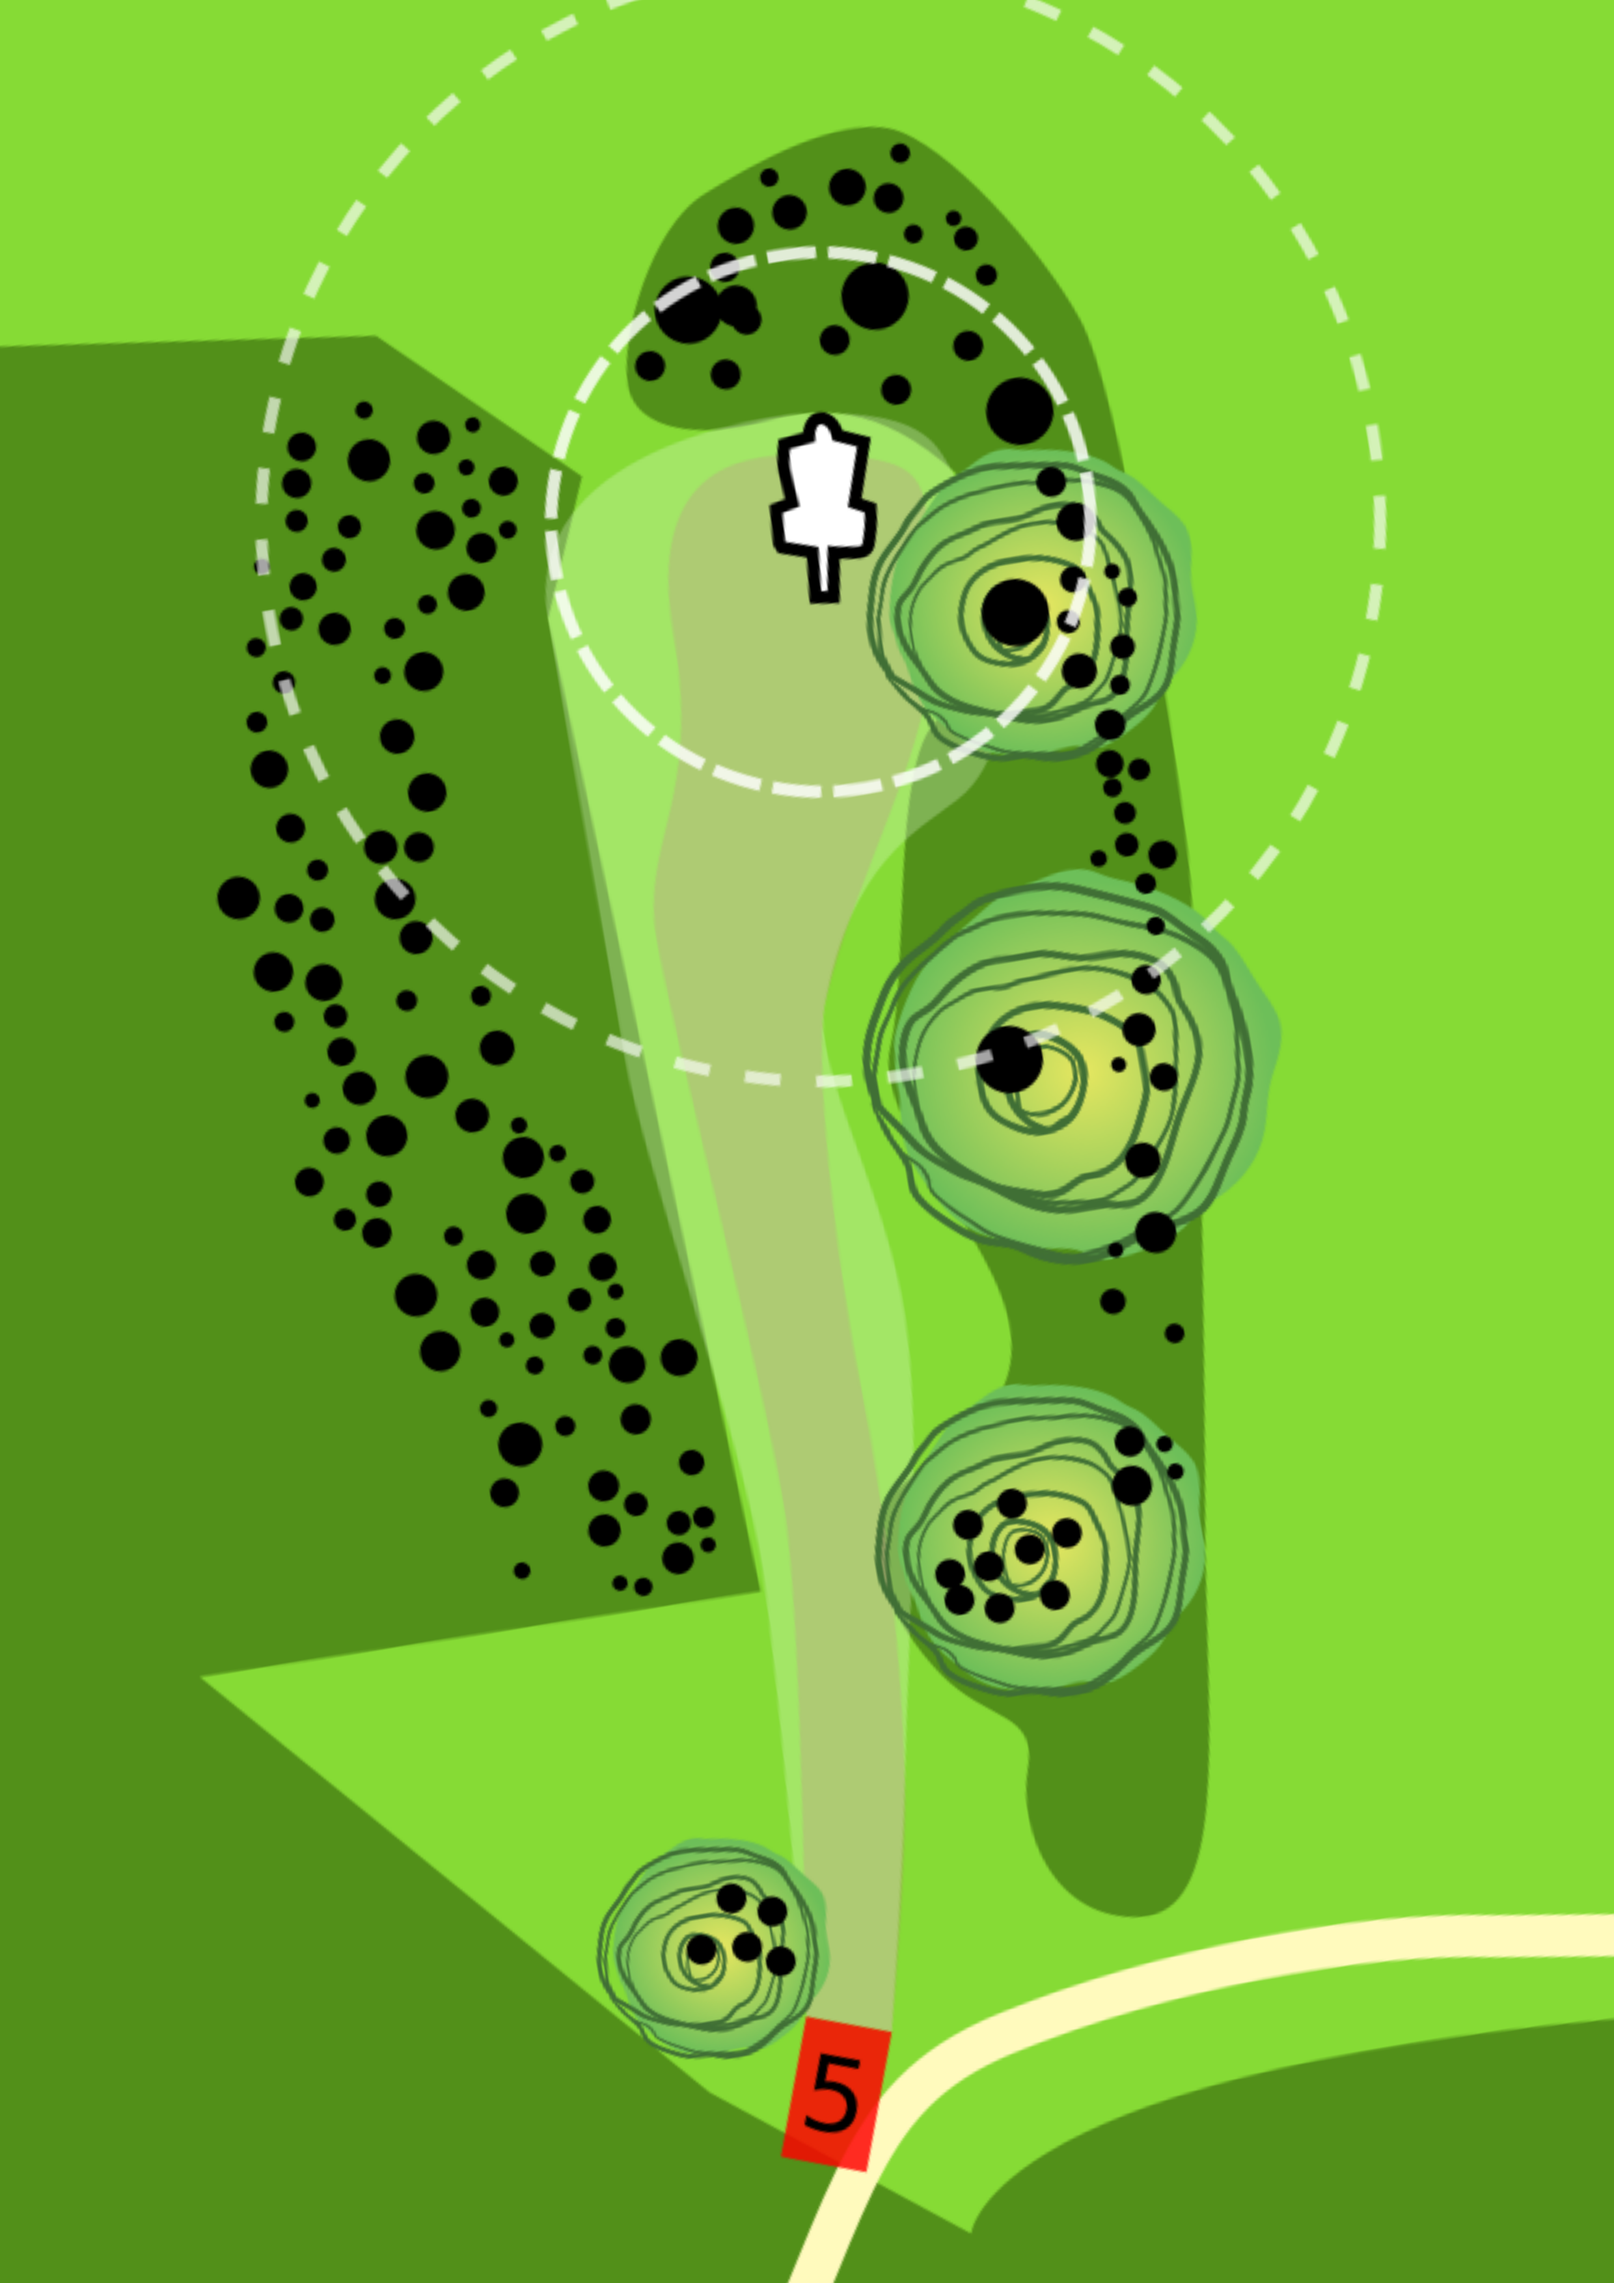
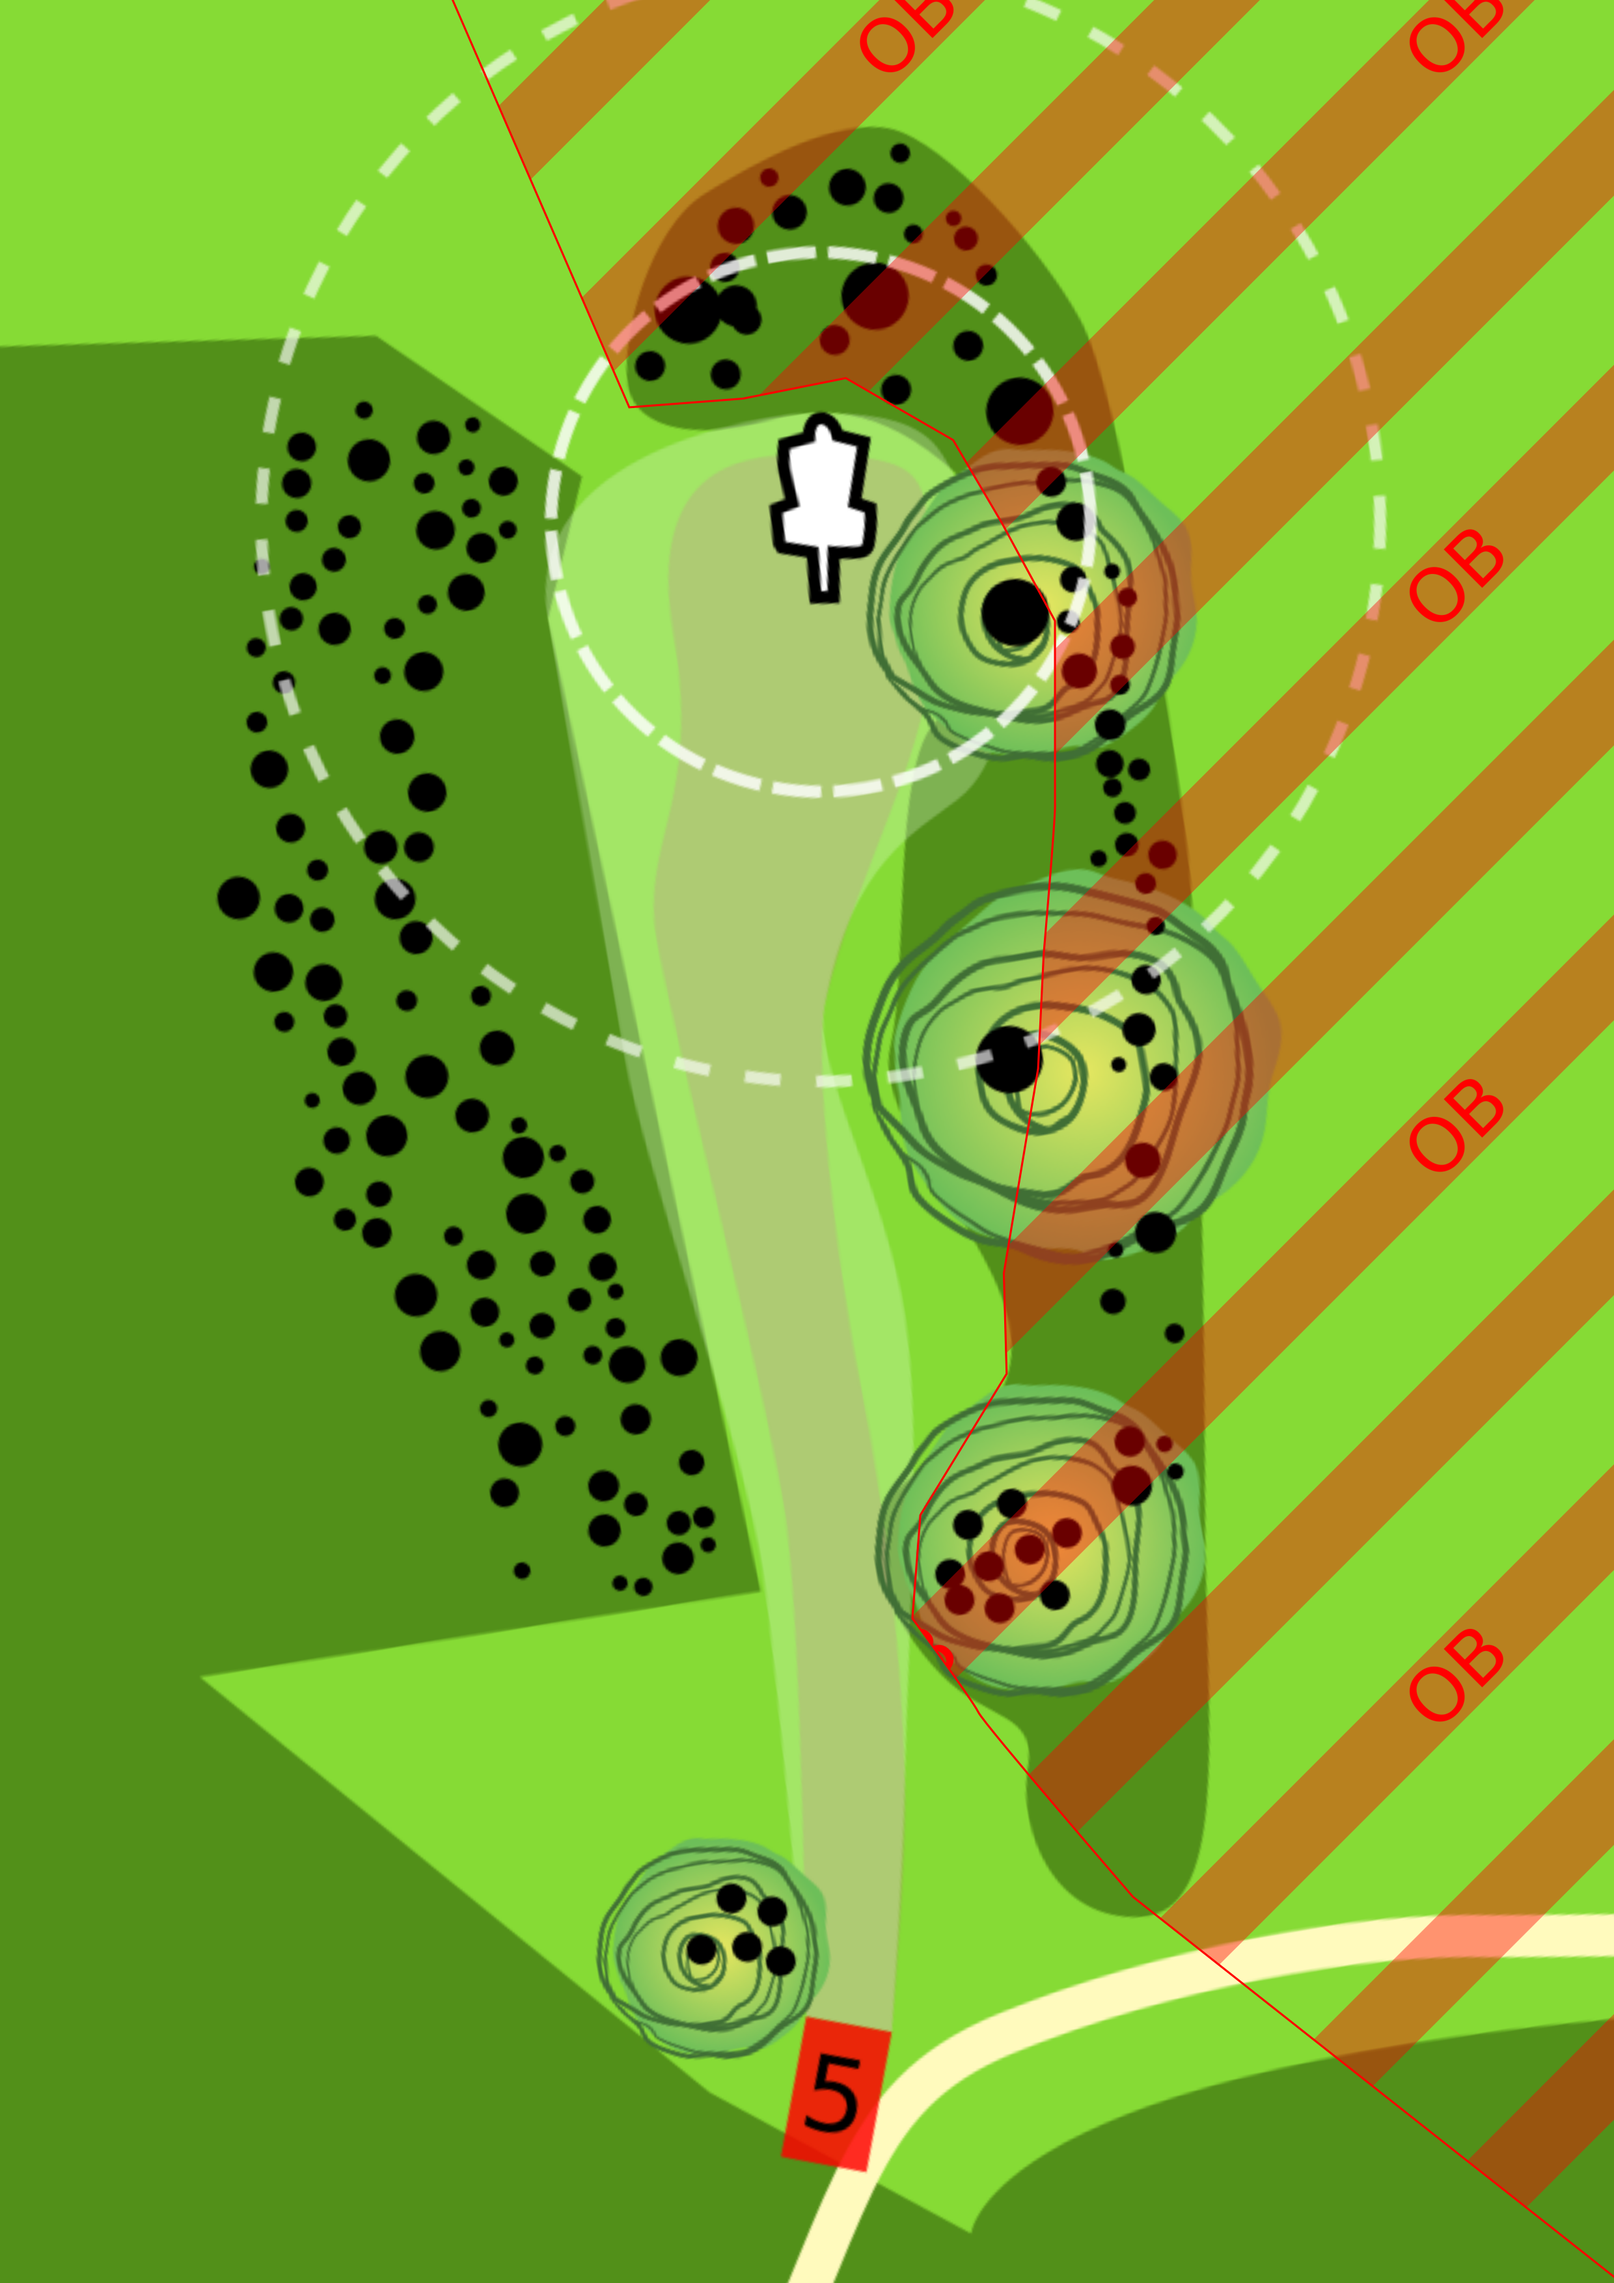
Last update du livret joueur

diff --git a/layouts/_default/sponsors.html b/layouts/_default/sponsors.html
@@ -19,6 +19,7 @@
 
 		<div class="sponsors">
 			<img src="/partenaires/mrfriz.jpg" alt="MrFriz Logo">
+			<img src="/partenaires/logoh19-web.jpeg.webp" alt="Hole19">
 			<img src="/partenaires/rennes.png" alt="Ville de Rennes Logo">
 			<img src="/partenaires/pdga_verticallogo_rgb_web.png" alt="PDGA Logo">
 			<img src="/partenaires/fffd.png" alt="FFFD Logo">

diff --git a/content/livret-joueur.md b/content/livret-joueur.md
@@ -1,9 +1,10 @@
+
 ---
 title: "Livret Joueur"
 date: 2020-02-04T13:34:18+01:00
 toc: true
 draft: false
-lastmod: 2020-10-06
+lastmod: 2020-10-15
 ---
 
 L’open de Roazhon est un tournoi PDGA/FFFD C-Tier qui se déroulera le 17 et 18 octobre sur le parcours de discgolf de la Prévalaye à Rennes
@@ -57,6 +58,27 @@ Directeur de tournoi
 Les cartes de scores seront sous format numérique à cause du COVID (discgolf metrix ou PDGA live).
   
 En cas d'impossibilité technique pour un des groupes, des cartes de score papier seront à disposition. Dans ce cas, le groupe devra décider avant le round quel joueur sera chargé de la feuille de score tout au long de la manche. Toutefois, le groupe dans son ensemble est responsable du retour de la carte de score : soit sous forme de photo (envoyer par mail/SMS), soit par un retour au QG "staff" pour que le DT puisse prendre une photo de la carte de score. Une fois validé par le DT, le format numérique de la carte de score fera foi.
+
+
+### Récompenses & package
+
+__MPO__ : 
+
+Un trophée pour le vainqueur et 100% des inscriptions redistribuer au 33% meilleur joueur.  
+La remise de récompense se fera par virement après le tournoi.
+
+
+__Catégorie Amateurs__ :
+
+100% des frais d’inscription redistribuer en package et en récompense PLUS un sponsoring de Hole19 sur les récompenses.
+
+
+ - Tous les joueurs recevront un package.
+ - Le vainqueur de chaque catégorie repartira avec un trophée.
+ - les 33% meilleurs joueurs de chaque catégorie gagneront des bons d’achat hole19
+
+
+
 
 ### Mort subite
 

diff --git a/content/news/2020-10-15_j-2.md b/content/news/2020-10-15_j-2.md
@@ -1,0 +1,19 @@
+---
+title: "Open de Roazhon J-2"
+date: 2020-10-15T19:46:09+02:00
+draft: false
+---
+
+Tous les signaux sont au vert, pas de couvre-feux à rennes, pas de mauvaise nouvelle de la préfecture pour le moment, une météo plutôt clémente, (presque) toutes les inscriptions validées.
+
+On termine la préparation du parcours vendredi matin et l'on est prêt à vous accueillir pour l'Open de Roazhon !
+
+<!--more-->
+
+Un peu de retard pour le meeting virtuel, il sera disponible vendredi matin.
+
+Plus embêtants, un petit souci de livraison pour les packages, ils n'arriveront probablement pas à temps pour le tournoi 😦... Mais on vous les enverra par la poste dès leur arrivée.
+
+On peut dessus, on avait hâte de les avoir en main propre nos masques MrFriz
+
+![package](/masque_hello.png)

diff --git a/content/parcours/2/index.md b/content/parcours/2/index.md
@@ -7,14 +7,16 @@ par: 3
 summary: 'Double mandatory. Chemin à gauche & droite OB. Fossé long OB.'
 cover: './2.png'
 draft: false
-lastmod: 2020-10-13
+lastmod: 2020-10-15
 ---
 
 
 {{< imgproc "2.png" >}}
 
+
+- Les 2 grands chênes devant la corbeille forment un double mandatory
+- Si vous raté ce mandatory une dropzone __spécifique au mandatory__ se trouve dans l'axe à 19m de la corbeille
 - À gauche les jardins, le chemin et au-delà est hors limites.
 - À droite, le chemin au-delà de la haie est hors limites.
 - Le fossé derrière la corbeille et au-delà est hors limites. 
-- Les 2 grands chênes devant la corbeille forment un double mandatory
-- La dropzone se trouve dans l'axe a 19m de la corbeille
+

diff --git a/content/parcours/14/index.md b/content/parcours/14/index.md
@@ -9,7 +9,7 @@ par: 3
 summary: 'Enclos OB'
 cover: './14.png'
 draft: false
-lastmod: 2020-10-13
+lastmod: 2020-10-15
 ---
 
 
@@ -19,6 +19,5 @@ lastmod: 2020-10-13
 - Les mares sur la gauche sont hors limites.
 - Le fossé est un obstacle occasionnel (casual relief).
 - Le 2e enclos à droite du green est hors limites.
-
-- ⚠ En fonction de la météo, il est très possible que les arbres à gauche soient hors limites s'ils sont inondés.
+- __Après un lancer hors limite une dropzone est disponible__
 

diff --git a/content/parcours/17/index.md b/content/parcours/17/index.md
@@ -9,7 +9,7 @@ par: 3
 summary: 'Ligne OB après la corbeilles'
 cover: './17.png'
 draft: false
-lastmod: 2020-10-13
+lastmod: 2020-10-15
 ---
 
 
@@ -18,3 +18,5 @@ lastmod: 2020-10-13
 - Une ligne hors limites est tracée 10 mètres derrière la corbeille.
 
 - ⚠ **Le chemin sur lequel est situé le départ est hors limites**
+
+- ⚠ **Attention à bien envoyer quelqu'un sur la gauche pour vérifier qu'il n'y a personne autour de la corbeille**

diff --git a/content/parcours/5/index.md b/content/parcours/5/index.md
@@ -8,12 +8,10 @@ par: 3
 summary: "TO BE DEFINED pour l'ODR2020"
 cover: './5.png'
 draft: false
-lastmod: 2020-10-13
+lastmod: 2020-10-15
 ---
 
 
 {{< imgproc "5.png" >}}
 
-*TO BE DEFINED pour l'ODR2020*
-
-Il y aura probablement une ligne OB quelque part, on réfléchit encore à la meilleure configuration pour un tournoi sanctionné.
+ - Une ligne OB longe le fairway sur la droite.
